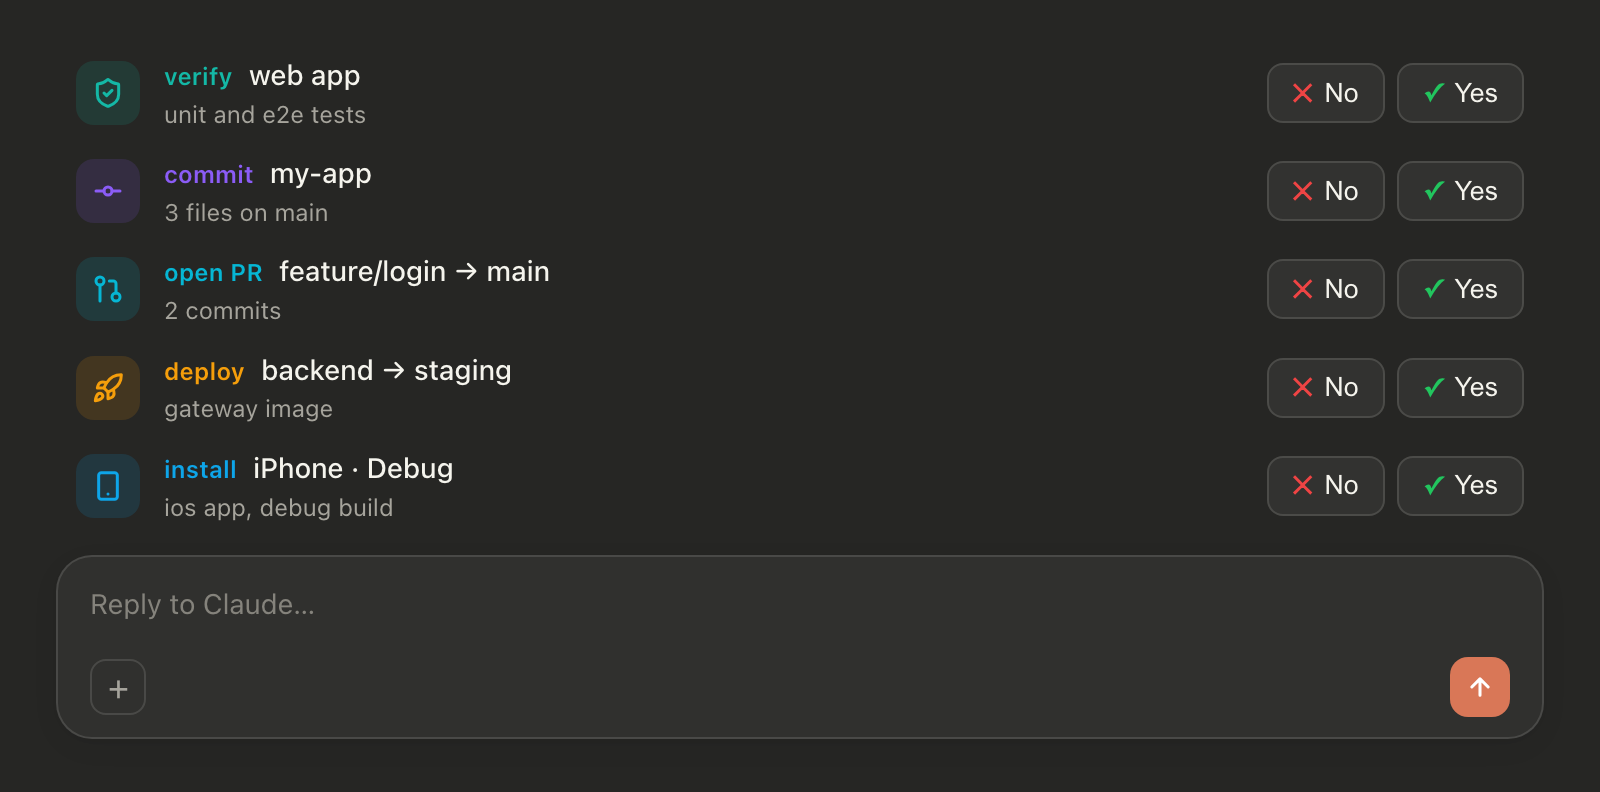
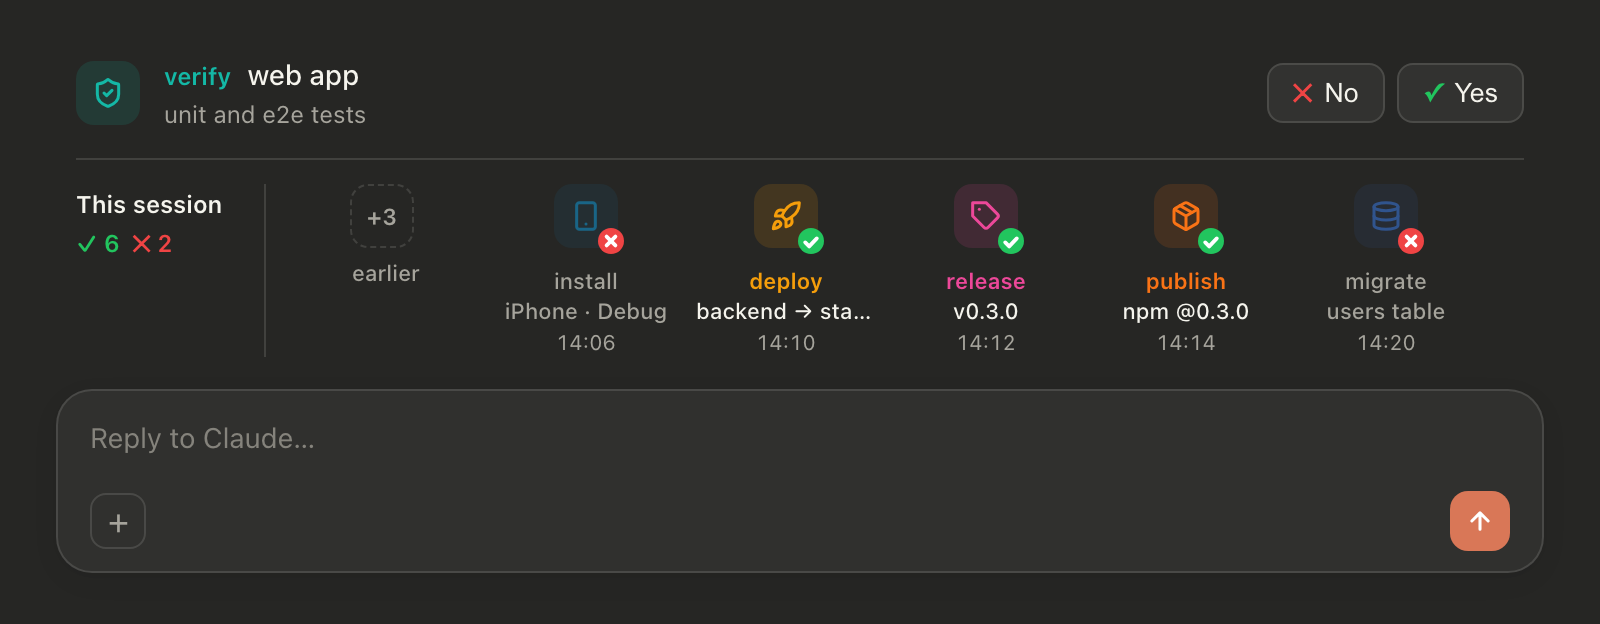
0.4.0: session strip of answered steps (action, target, time, yes/no badge)

diff --git a/hooks/register.tsx b/hooks/register.tsx
@@ -1,16 +1,26 @@
 import { atom, read, update } from 'claude-code'
 import type { EngineInterface, Register } from 'claude-code'
 
-import type { Ask } from '../types'
-import { BUILT_IN, FALLBACK, ICONS, merge, NAME, NO, tile, YES } from './modes'
+import type { Ask, Done } from '../types'
+import { badged, BUILT_IN, FALLBACK, ICONS, merge, more, NAME, NO, tile, YES } from './modes'
 import type { Mode } from './modes'
 
+// Open steps. asks-2: answered rows no longer stay here (0.3.0 kept them with an `answer`).
 const asks = atom({ plugin: 'ship-band', key: 'asks' } as const, [], {
-  shape: 'asks-1',
+  shape: 'asks-2',
 })
+// Every answered step of the session, oldest first; the strip shows the newest few.
+const history = atom({ plugin: 'ship-band', key: 'history' } as const, [], {
+  shape: 'history-1',
+})
+const STRIP = 5
 
-// Where a prompt counts as the person's own message.
-const PERSON = new Set(['composer', 'bridge', 'sdk'])
+const short = (s: string, n = 14) => (s.length > n ? `${s.slice(0, n - 1)}…` : s)
+// Local time: the mod's sandbox keeps the machine's time zone.
+const hhmm = (ms: number) => {
+  const d = new Date(ms)
+  return `${String(d.getHours()).padStart(2, '0')}:${String(d.getMinutes()).padStart(2, '0')}`
+}
 
 // Modes the person added or changed, kept across sessions.
 const STORE_KEY = 'modes'
@@ -145,30 +155,21 @@ export const register: Register = on => {
     }
   }).catch(() => ({ deny: 'ship-band could not save the modes.' }))
 
-  // The person's next own message clears the answered rows; the mod's own Yes
-  // message (origin `plugin`) leaves them, so the report stays while Claude works.
-  on('prompt.submit', async ($, e, next) => {
-    // No origin stamped: the person's own, as the engine reads it.
-    const kind = (e.origin as { kind?: string } | undefined)?.kind
-    if (kind === undefined || PERSON.has(kind)) {
-      await update($, asks, l => l.filter(a => !a.answer)).catch(() => undefined)
-    }
-    return next(e)
-  })
-
   on('ui.render', { component: 'AbovePrompt' }, async ($, e, next) => {
     const list = await read($, asks)
+    const done = await read($, history)
 
-    if (e.props.hasSurvey || list.length === 0) {
+    if (e.props.hasSurvey || (list.length === 0 && done.length === 0)) {
       return next(e)
     }
 
     const ui = $.ui.resolve(e)
     const { Box, Button, Text } = ui
-    // A row whose mode was removed since it was offered still draws, plainly.
-    const modeOf = (a: Ask): Mode => modes[a.kind] ?? { label: a.kind, icon: 'zap', color: FALLBACK, hint: '' }
+    // A step whose mode was removed since it was offered still draws, plainly.
+    const modeOf = (kind: string): Mode => modes[kind] ?? { label: kind, icon: 'zap', color: FALLBACK, hint: '' }
+    const svg = 'Svg' in ui
     const icon = (m: Mode) =>
-      'Svg' in ui ? (
+      svg ? (
         <ui.Svg source={tile(m)} alt={m.label} width={32} height={32} />
       ) : (
         // Terminal has no Svg: a coloured dot stands in.
@@ -176,26 +177,35 @@ export const register: Register = on => {
           ●
         </Text>
       )
-    // An answered row keeps its place and swaps its buttons for a report.
-    const answer = (id: string, value: 'yes' | 'no') =>
-      update($, asks, l => l.map(x => (x.id === id ? { ...x, answer: value } : x)))
-    const yes = (a: Ask) => {
-      void answer(a.id, 'yes')
-      void $.prompt.submit({
-        text: `Yes, go ahead: ${modeOf(a).label} ${a.title}${a.detail ? ` (${a.detail})` : ''}`,
-        asUser: true,
-      })
+
+    // Answering moves the step from the open rows into the session strip.
+    const answer = async (a: Ask, value: 'yes' | 'no') => {
+      const at = await $.clock.now()
+      await update($, asks, l => l.filter(x => x.id !== a.id))
+      await update($, history, h =>
+        [...h, { id: `${at}:${a.id}`, kind: a.kind, title: a.title, answer: value, at }].slice(-200),
+      )
+      if (value === 'yes') {
+        await $.prompt.submit({
+          text: `Yes, go ahead: ${modeOf(a.kind).label} ${a.title}${a.detail ? ` (${a.detail})` : ''}`,
+          asUser: true,
+        })
+      }
     }
 
+    const approved = done.filter(d => d.answer === 'yes').length
+    const shown = done.slice(-STRIP)
+    const earlier = done.length - shown.length
+
     return (
-      <Box flexDirection="column" rowGap="sm" paddingX={1}>
+      <Box flexDirection="column" rowGap="md" paddingX={1}>
         {list.map(a => {
-          const m = modeOf(a)
+          const m = modeOf(a.kind)
           return (
             <Box key={a.id} flexDirection="row" alignItems="center" gap="sm">
               <Box flexShrink={0}>{icon(m)}</Box>
               <Box flexDirection="column" flexGrow={1} flexShrink={1}>
-                <Text wrap="truncate-end" dimColor={a.answer === 'no'}>
+                <Text wrap="truncate-end">
                   <Text color={m.color} size="footnote" weight="semibold">
                     {m.label}
                   </Text>
@@ -208,39 +218,92 @@ export const register: Register = on => {
                   </Text>
                 )}
               </Box>
-              {a.answer === 'yes' ? (
-                <Text wrap="truncate-end">
-                  <Text color={YES} bold>
-                    ✓ Yes
-                  </Text>
-                  <Text dimColor>{` · ${m.label} sent to Claude`}</Text>
-                </Text>
-              ) : a.answer === 'no' ? (
-                <Text wrap="truncate-end">
+              <Box flexDirection="row" alignItems="center" gap="xs" flexShrink={0}>
+                <Button key={`n-${a.id}`} label="No" role="dismiss" onPress={() => void answer(a, 'no')}>
                   <Text color={NO} bold>
-                    ✕ No
-                  </Text>
-                  <Text dimColor> · skipped</Text>
-                </Text>
-              ) : (
-                <Box flexDirection="row" alignItems="center" gap="xs" flexShrink={0}>
-                  <Button key={`n-${a.id}`} label="No" role="dismiss" onPress={() => void answer(a.id, 'no')}>
-                    <Text color={NO} bold>
-                      ✕
-                    </Text>{' '}
-                    No
-                  </Button>
-                  <Button key={`y-${a.id}`} label="Yes" onPress={() => yes(a)}>
-                    <Text color={YES} bold>
-                      ✓
-                    </Text>{' '}
-                    Yes
-                  </Button>
-                </Box>
-              )}
+                    ✕
+                  </Text>{' '}
+                  No
+                </Button>
+                <Button key={`y-${a.id}`} label="Yes" onPress={() => void answer(a, 'yes')}>
+                  <Text color={YES} bold>
+                    ✓
+                  </Text>{' '}
+                  Yes
+                </Button>
+              </Box>
             </Box>
           )
         })}
+
+        {done.length > 0 && (
+          <Box key="strip" flexDirection="row" alignItems="flex-start" gap="md">
+            <Box flexDirection="column" flexShrink={0}>
+              <Text size="footnote" weight="semibold">
+                This session
+              </Text>
+              <Text size="footnote" weight="semibold">
+                <Text color={YES}>{`✓ ${approved}`}</Text>
+                {'  '}
+                <Text color={NO}>{`✕ ${done.length - approved}`}</Text>
+              </Text>
+            </Box>
+            <Box flexDirection="row" flexWrap="wrap" alignItems="flex-start" gap="md">
+              {earlier > 0 && (
+                <Box key="earlier" flexDirection="column" alignItems="center">
+                  {svg ? (
+                    <ui.Svg source={more(earlier)} alt={`${earlier} earlier`} width={36} height={36} />
+                  ) : (
+                    <Text dimColor>{`+${earlier}`}</Text>
+                  )}
+                  <Text size="caption" dimColor>
+                    earlier
+                  </Text>
+                </Box>
+              )}
+              {shown.map(d => {
+                const m = modeOf(d.kind)
+                const skipped = d.answer === 'no'
+                return (
+                  <Box key={d.id} flexDirection="column" alignItems="center">
+                    {svg ? (
+                      <ui.Svg
+                        source={badged(m, d.answer)}
+                        alt={`${m.label} ${d.title}: ${skipped ? 'no' : 'yes'}`}
+                        width={36}
+                        height={36}
+                      />
+                    ) : (
+                      <Text>
+                        <Text color={m.color} bold>
+                          ●
+                        </Text>
+                        <Text color={skipped ? NO : YES} bold>
+                          {skipped ? '✕' : '✓'}
+                        </Text>
+                      </Text>
+                    )}
+                    {skipped ? (
+                      <Text size="caption" dimColor>
+                        {m.label}
+                      </Text>
+                    ) : (
+                      <Text size="caption" weight="semibold" color={m.color}>
+                        {m.label}
+                      </Text>
+                    )}
+                    <Text size="caption" weight="medium" dimColor={skipped}>
+                      {short(d.title)}
+                    </Text>
+                    <Text size="caption" dimColor>
+                      {hhmm(d.at)}
+                    </Text>
+                  </Box>
+                )
+              })}
+            </Box>
+          </Box>
+        )}
       </Box>
     )
   })

diff --git a/tests/band.test.tsx b/tests/band.test.tsx
@@ -31,9 +31,10 @@ const engine = (on: On, sent: string[] = []) => {
 }
 const origins: string[] = []
 
-test('Yes and No turn the buttons into a report; the person\'s next message clears it', async ($, on) => {
+test('answering moves a step into the session strip; open rows keep their buttons', async ($, on) => {
   const sent: string[] = []
   engine(on, sent)
+  mock.clock(on)
 
   await $.session.start({ cwd: '/', surface: 'desktop', isInteractive: true })
   const r = await $.tool.call({
@@ -47,40 +48,52 @@ test('Yes and No turn the buttons into a report; the person\'s next message clea
   })
   expect(JSON.stringify(r)).toContain('Shown 3 row')
 
-  for (const surface of ['terminal', 'desktop'] as const) {
-    const ui = await $.ui.mount({ ...BAND, surface })
-    expect((await ui.find({ type: 'Text', text: /my-app/ }))?.text).toContain('commit')
-    expect((await ui.find({ type: 'Text', text: /3 files on main/ }))?.text).toBe('3 files on main')
-    expect((await ui.find({ type: 'Text', text: /iPhone/ }))?.text).toContain('install')
-    expect((await ui.find({ type: 'Text', text: /web tests/ }))?.text).toContain('verify')
-    if (surface === 'desktop') expect(await ui.find({ type: 'Svg' })).toBeDefined()
-    expect(await ui.find({ type: 'Text', text: /dropped/ })).toBeUndefined()
-    await ui.unmount()
-  }
-
   const ui = await $.ui.mount({ ...BAND, surface: 'desktop' })
+  expect(await ui.find({ type: 'Text', text: /This session/ })).toBeUndefined()
   await ui.press({ key: 'y-0:commit:my-app' })
   await ui.press({ key: 'n-1:device:iPhone · Debug' })
-  expect(sent[0]).toBe('Yes, go ahead: commit my-app (3 files on main)')
-  expect(sent.length).toBe(1)
+  expect(sent).toEqual(['Yes, go ahead: commit my-app (3 files on main)'])
+  expect(origins).toEqual(['plugin'])
 
-  // Answered rows stay, with a report and no buttons; the open row keeps its own.
-  expect((await ui.find({ type: 'Text', text: /sent to Claude/ }))?.text).toBe('✓ Yes · commit sent to Claude')
-  expect((await ui.find({ type: 'Text', text: /skipped/ }))?.text).toBe('✕ No · skipped')
-  expect((await ui.find({ type: 'Text', text: /iPhone/ }))?.text).toContain('install')
-  expect(await ui.find({ key: 'y-0:commit:my-app' })).toBeUndefined()
-  expect(await ui.find({ key: 'n-1:device:iPhone · Debug' })).toBeUndefined()
+  // The open row keeps its two buttons; the answered ones sit in the strip.
   expect(await ui.findAll({ type: 'Button' })).toHaveLength(2)
+  expect((await ui.find({ type: 'Text', text: /web tests/ }))?.text).toContain('verify')
+  expect(await ui.find({ type: 'Text', text: /This session/ })).toBeDefined()
+  expect((await ui.find({ type: 'Text', text: /✓ 1/ }))?.text).toBe('✓ 1  ✕ 1')
+  expect(await ui.find({ type: 'Text', text: /^my-app$/ })).toBeDefined()
+  expect(await ui.find({ type: 'Text', text: /^iPhone · Debug$/ })).toBeDefined()
+  expect(await ui.find({ type: 'Text', text: /^install$/ })).toBeDefined()
+  // One tile for the open row, one badged tile per answered step.
+  expect(await ui.findAll({ type: 'Svg' })).toHaveLength(3)
   await ui.unmount()
 
-  // The mod's own Yes message did not clear them; the person's next message does.
-  await $.prompt.submit({ text: 'thanks', asUser: true })
-  const after = await $.ui.mount({ ...BAND, surface: 'desktop' })
-  expect(origins).toEqual(['plugin', 'none'])
-  expect(await after.find({ type: 'Text', text: /my-app/ })).toBeUndefined()
-  expect(await after.find({ type: 'Text', text: /iPhone/ })).toBeUndefined()
-  expect((await after.find({ type: 'Text', text: /web tests/ }))?.text).toContain('verify')
-  await after.unmount()
+  // A new offer replaces the open rows only; the strip stays.
+  await $.tool.call({ tool: 'mcp__ship-band__offer_actions', actions: [] })
+  const term = await $.ui.mount({ ...BAND, surface: 'terminal' })
+  expect(await term.findAll({ type: 'Button' })).toHaveLength(0)
+  expect((await term.find({ type: 'Text', text: /✓ 1/ }))?.text).toBe('✓ 1  ✕ 1')
+  expect(await term.find({ type: 'Text', text: /^my-app$/ })).toBeDefined()
+  await term.unmount()
+})
+
+test('the strip shows the newest 5 and counts the rest as earlier', async ($, on) => {
+  engine(on)
+  mock.clock(on)
+  await $.session.start({ cwd: '/', surface: 'desktop', isInteractive: true })
+  await $.tool.call({
+    tool: 'mcp__ship-band__offer_actions',
+    actions: ['a', 'b', 'c', 'd', 'e', 'f'].map(t => ({ kind: 'run', title: `job-${t}` })),
+  })
+  const ui = await $.ui.mount({ ...BAND, surface: 'desktop' })
+  for (const [i, t] of ['a', 'b', 'c', 'd', 'e', 'f'].entries()) await ui.press({ key: `n-${i}:run:job-${t}` })
+
+  expect((await ui.find({ type: 'Text', text: /✓ 0/ }))?.text).toBe('✓ 0  ✕ 6')
+  expect(await ui.find({ type: 'Text', text: /^earlier$/ })).toBeDefined()
+  expect(await ui.find({ type: 'Text', text: /^job-a$/ })).toBeUndefined()
+  expect(await ui.find({ type: 'Text', text: /^job-f$/ })).toBeDefined()
+  // 5 badged tiles plus the "+1" tile.
+  expect(await ui.findAll({ type: 'Svg' })).toHaveLength(6)
+  await ui.unmount()
 })
 
 test('the person adds a mode and relabels a built-in; bad values fall back', async ($, on) => {

diff --git a/hooks/modes.ts b/hooks/modes.ts
@@ -69,6 +69,17 @@ export const merge = (saved: Record<string, Partial<Mode>>): Record<string, Mode
   return out
 }
 
+// The same tile with the answer drawn on as a badge; a skipped one is faded.
+export const badged = (m: Mode, answer: 'yes' | 'no') => {
+  const c = answer === 'yes' ? YES : NO
+  const mark = answer === 'yes' ? 'M25.6 29.2l2 2 3.8-4' : 'M26.3 26.3l4.4 4.4M30.7 26.3l-4.4 4.4'
+  return `<svg xmlns="http://www.w3.org/2000/svg" viewBox="0 0 36 36" width="36" height="36"><g opacity="${answer === 'yes' ? 1 : 0.5}"><rect width="32" height="32" rx="9" fill="${m.color}" fill-opacity=".14"/><g transform="translate(8 8) scale(.6667)" fill="none" stroke="${m.color}" stroke-width="2.25" stroke-linecap="round" stroke-linejoin="round">${ICONS[m.icon] ?? ICONS.zap}</g></g><circle cx="28.5" cy="28.5" r="6.5" fill="${c}"/><path d="${mark}" fill="none" stroke="#fff" stroke-width="1.9" stroke-linecap="round" stroke-linejoin="round"/></svg>`
+}
+
+// Dashed tile counting the answered steps the strip has no room for.
+export const more = (n: number) =>
+  `<svg xmlns="http://www.w3.org/2000/svg" viewBox="0 0 36 36" width="36" height="36"><rect x=".75" y=".75" width="30.5" height="30.5" rx="8.5" fill="none" stroke="${FALLBACK}" stroke-opacity=".55" stroke-dasharray="3 3"/><text x="16" y="20.5" text-anchor="middle" font-family="-apple-system,system-ui,sans-serif" font-size="11" font-weight="600" fill="${FALLBACK}">+${Math.min(n, 999)}</text></svg>`
+
 // Tinted rounded tile, icon stroked in the mode's colour (desktop draws Svg as an image: no currentColor).
 export const tile = (m: Mode) =>
   `<svg xmlns="http://www.w3.org/2000/svg" viewBox="0 0 32 32" width="32" height="32"><rect width="32" height="32" rx="9" fill="${m.color}" fill-opacity=".14"/><g transform="translate(8 8) scale(.6667)" fill="none" stroke="${m.color}" stroke-width="2.25" stroke-linecap="round" stroke-linejoin="round">${ICONS[m.icon] ?? ICONS.zap}</g></svg>`

diff --git a/types/index.d.ts b/types/index.d.ts
@@ -1,9 +1,11 @@
 // kind: a mode's name, built-in or one the person added (hooks/modes.ts).
-// answer: set once the person pressed Yes or No; the row then shows a report.
-export type Ask = { id: string; kind: string; title: string; detail: string; answer?: 'yes' | 'no' }
+export type Ask = { id: string; kind: string; title: string; detail: string }
+
+// A step the person answered this session; `at` is when, in ms.
+export type Done = { id: string; kind: string; title: string; answer: 'yes' | 'no'; at: number }
 
 declare module 'claude-code' {
   interface PluginState {
-    'ship-band': { asks: Shaped<Ask[]> }
+    'ship-band': { asks: Shaped<Ask[]>; history: Shaped<Done[]> }
   }
 }

diff --git a/README.md b/README.md
@@ -8,17 +8,17 @@ When Claude finishes work that leaves a step for you to approve, it puts each st
 
 **Light**
 
-![ship-band in light mode: verify, commit, open PR, deploy and install rows, each with No and Yes buttons, above the prompt box](docs/band-light.png)
+![ship-band in light mode: an open verify step with No and Yes buttons, and below it the session strip of answered steps, each icon badged yes or no with its action, target and time](docs/band-light.png)
 
 **Dark**
 
-![ship-band in dark mode: verify, commit, open PR, deploy and install rows, each with No and Yes buttons, above the prompt box](docs/band-dark.png)
+![ship-band in dark mode: an open verify step with No and Yes buttons, and below it the session strip of answered steps, each icon badged yes or no with its action, target and time](docs/band-dark.png)
 
 <sub>Previews drawn from the mod's own icons and colours; buttons and the prompt box follow your Claude app's own style.</sub>
 
 - **✓ Yes** sends "Yes, go ahead: commit my-app (3 files on main)" as your next message, and Claude runs that step.
 - **✕ No** runs nothing.
-- Once you answer, the buttons turn into a report on that row: **✓ Yes · commit sent to Claude** or **✕ No · skipped**. The report stays while Claude works and clears when you send your next message (or Claude offers new steps).
+- Once you answer, the step moves into **This session**: one row of icons for the whole session, each with a green ✓ or red ✕ badge and the action, target and time under it. The newest 5 show, older ones are counted as **+N earlier**, and a running count reads **✓ 6 ✕ 2**. A new session starts empty.
 - Nothing runs before you press Yes.
 
 In the desktop app each row has a drawn icon on a tinted tile. A terminal draws a coloured dot in its place. Yes is always green and No always red, so no mode uses those two colours.
@@ -80,7 +80,7 @@ Requires a Claude Code build with mod (function hook) support; this one was buil
 | `offer_actions` tool | `mcp__ship-band__offer_actions`. Claude calls it with up to 6 rows: `kind` (a mode), a `title` naming only the target, a short `detail`. Each call replaces the rows; an empty list clears them. |
 | `edit_modes` tool | `mcp__ship-band__edit_modes`. Claude calls it only when you ask to add, change or remove a mode. Modes are kept in the mod's own store. |
 | Band | A `ui.render` hook on `AbovePrompt` in [`hooks/register.tsx`](hooks/register.tsx) draws the rows, and gives way to surveys and to an empty list. |
-| Yes / No | Yes submits the step as your message; both turn the row into a report with no buttons. A `prompt.submit` hook clears answered rows on your next own message, not on the mod's own Yes message. Rows live in session state, so they survive a reload of the mod. |
+| Yes / No | Yes submits the step as your message. Both move the step into the session strip with the time (`$.clock`). Open steps and the strip live in session state, so they survive a reload of the mod; a new offer replaces only the open steps. |
 
 The mod reads no files, runs no commands and makes no network calls. Claude does the work itself, only after your Yes.
 
